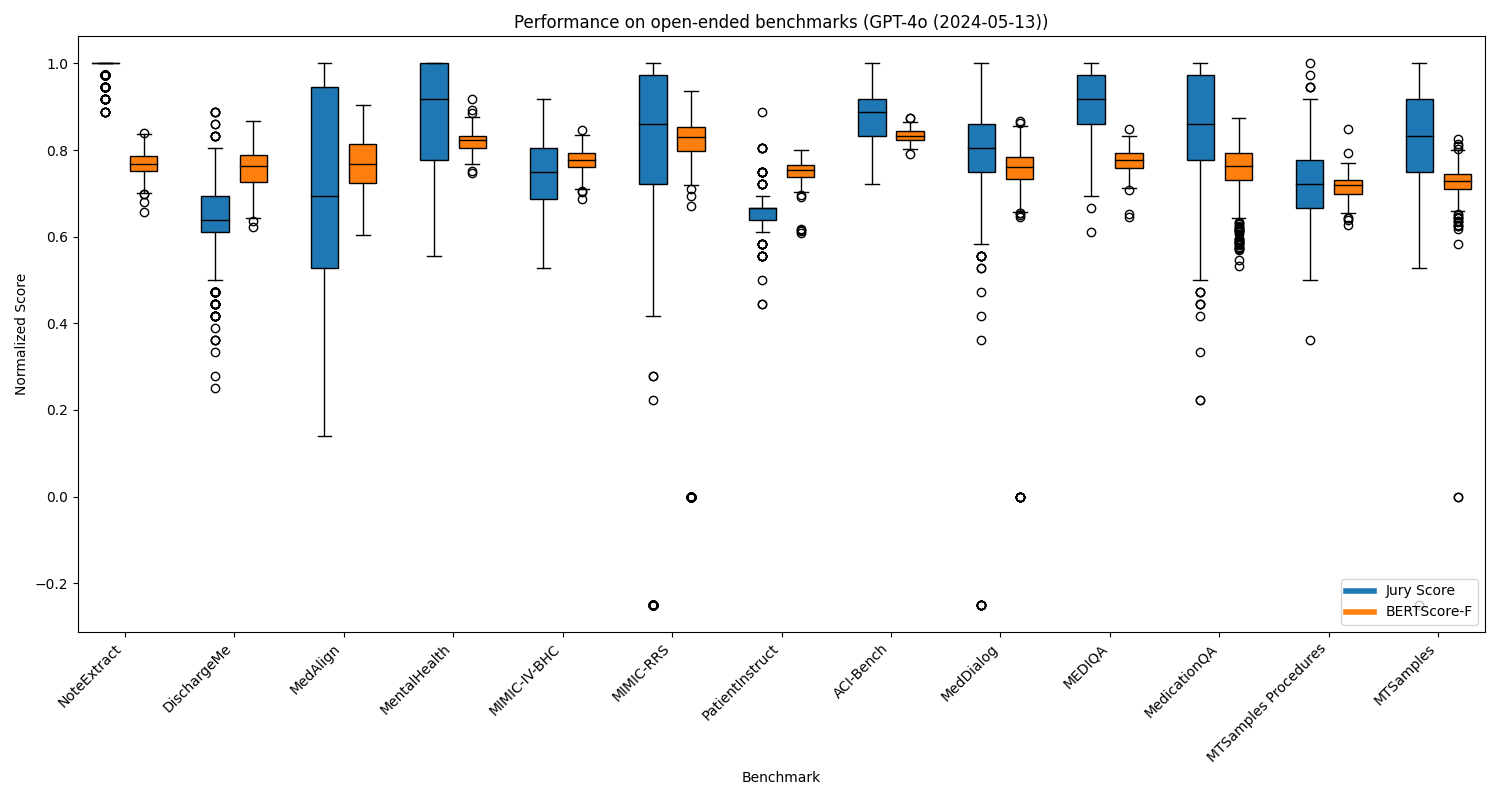
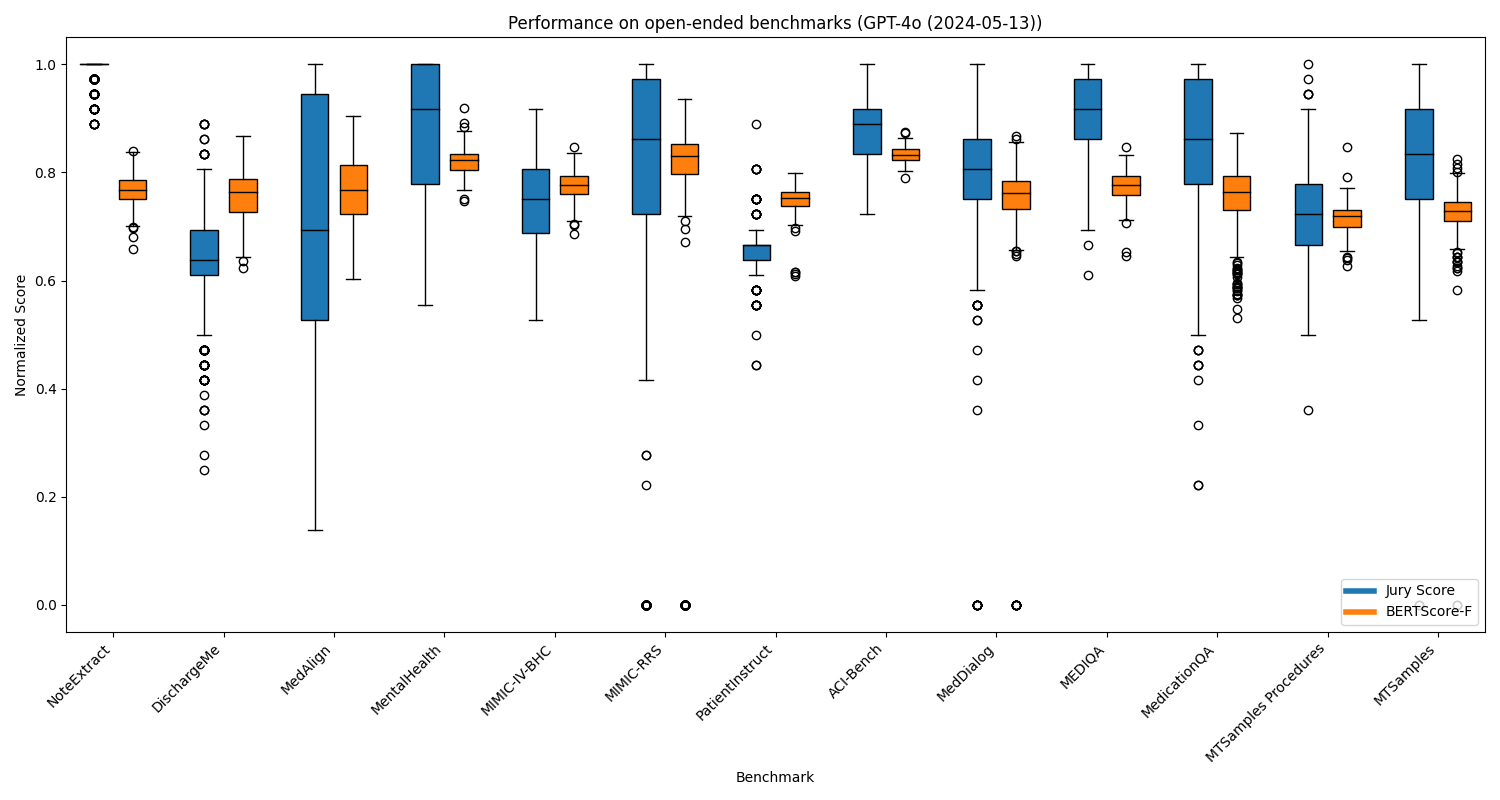
Fixed recompute metrics

diff --git a/src/medhelm/leaderboard/recompute_metrics.py b/src/medhelm/leaderboard/recompute_metrics.py
@@ -12,15 +12,26 @@ from helm.benchmark.augmentations.perturbation_description import (
     PerturbationDescription,
 )
 from helm.benchmark.metrics.metric import PerInstanceStats
+from helm.benchmark.metrics.metric_name import MetricName
 from helm.benchmark.metrics.statistic import merge_stat, Stat
 from helm.benchmark.runner import remove_stats_nans, remove_per_instance_stats_nans
 from helm.common.general import write, asdict_without_nones
 
-from medhelm.utils import read_per_instance_stats
+from medhelm.utils import read_per_instance_stats, read_stats
 from medhelm.utils.constants import (
     PER_INSTANCE_STATS_FILE_NAME,
     STATS_FILE_NAME,
 )
+
+# These metrics don't have their perturbation copies
+NO_PERTURBATION_METRICS = [
+    "training_co2_cost",
+    "training_energy_cost",
+    "num_instances",
+    "logprob_per_byte",
+    "bits_per_byte",
+    "perplexity"
+]
 
 
 def recomupte_per_instance_stats(
@@ -39,7 +50,10 @@ def recomupte_per_instance_stats(
             stat._update_mean_variance_stddev()
 
 
-def recompute_stats(per_instance_stats_list: List[PerInstanceStats]) -> List[Stat]:
+def recompute_stats(
+    per_instance_stats_list: List[PerInstanceStats],
+    old_stats: List[Stat],
+) -> List[Stat]:
     """
     Recomputes all stats for the leaderboard.
     NOTE: For MedHELM, we didn't add any fairness or robustness perturbations,
@@ -53,10 +67,36 @@ def recompute_stats(per_instance_stats_list: List[PerInstanceStats]) -> List[Sta
     stats_list = []
     fairness_stats_list = []
     robustness_stats_list = []
+    
+    # Retrieve any value from the aggregated_stats dictionary
+    count = next(iter(aggregated_stats.values()), None).count
+
+    # Check if all values in aggregated_stats have the same count
+    # In some cases it will not, as some metrics are repeated
+    for metric_name, stat in aggregated_stats.items():
+        if metric_name.name in NO_PERTURBATION_METRICS:
+            continue
+        if stat.count != count:
+            print(f"WARNING: Count mismatch for metric {metric_name.name}: expected {count}, got {stat.count}")
+    
+    merge_stat(
+        aggregated_stats,
+        Stat(
+            name=MetricName("num_instances", split="test"),
+        ).add(count)
+    )
+    
+    for old_stat in old_stats:
+        if old_stat.name not in aggregated_stats and old_stat.name.perturbation is None:
+            print(f"Adding missing {old_stat.name} to aggregated stats")
+            aggregated_stats[old_stat.name] = old_stat    
 
     for metric_name, stat in aggregated_stats.items():
         stat = stat.take_mean()
         stats_list.append(stat)
+        if metric_name.name in NO_PERTURBATION_METRICS:
+            print(f"Skipping {stat} because it is in the no perturbation metrics")  
+            continue
         # Add robustness and fairness stats
         robustness_stats_list.append(
             Stat(
@@ -73,6 +113,24 @@ def recompute_stats(per_instance_stats_list: List[PerInstanceStats]) -> List[Sta
     return stats_list
 
 
+def get_unique_stats(
+    stats: List[Stat],
+) -> List[Stat]:
+    """
+    Get the unique stats from a list of stats.
+    This method is necessary as some metric_specs used for the scenarios
+    have overlapping metrics. For inatance, the metric inference_runtime
+    appears in 2 of the metrics_specs, so it appears twice in the list of stats.
+    """
+    unique_stats = []
+    seen = set()
+    for stat in stats:
+        if stat.name not in seen:
+            seen.add(stat.name)
+            unique_stats.append(stat)
+    return unique_stats
+
+
 def process_run_spec(run_spec_path: str):
     """
     Process a single run spec to recompute the leaderboard metrics.
@@ -80,13 +138,14 @@ def process_run_spec(run_spec_path: str):
     per_instance_stats_path = os.path.join(run_spec_path, PER_INSTANCE_STATS_FILE_NAME)
     per_instance_stats = read_per_instance_stats(per_instance_stats_path)
     stats_path = os.path.join(run_spec_path, STATS_FILE_NAME)
+    stats = get_unique_stats(read_stats(stats_path))
     recomupte_per_instance_stats(per_instance_stats)
-    new_stats = recompute_stats(per_instance_stats)
-    
-    # This is because we have 3 perturbations for each stat: None, robustness, and fairness
+    new_stats = recompute_stats(per_instance_stats, stats)
+    # Even if we remove instances, we expect the same number of metrics to be
+    # the same. If we remove metrics, this code does not support that feature.
     assert(
-        len(new_stats) == len(per_instance_stats) * 3
-    ), f"Expected {len(per_instance_stats) * 3} stats, got {len(new_stats)}"
+        len(new_stats) == len(stats)
+    ), f"Expected {len(stats)} stats, got {len(new_stats)}"
     write(
         stats_path,
         json.dumps([asdict_without_nones(stat) for stat in remove_stats_nans(new_stats)], indent=2),
@@ -104,6 +163,7 @@ def process_run(run_path: str):
     for run_spec in tqdm(sorted(os.listdir(run_path)), desc="Processing run specs"):
         if "eval_cache" in run_spec or "groups" in run_spec:
             continue
+        print(f"Processing run spec {os.path.join(run_path, run_spec)}")
         process_run_spec(os.path.join(run_path, run_spec))
         # NOTE: If the number of instances changed because of manual removal,
         # we need to update this function to also ensure the number of instance
